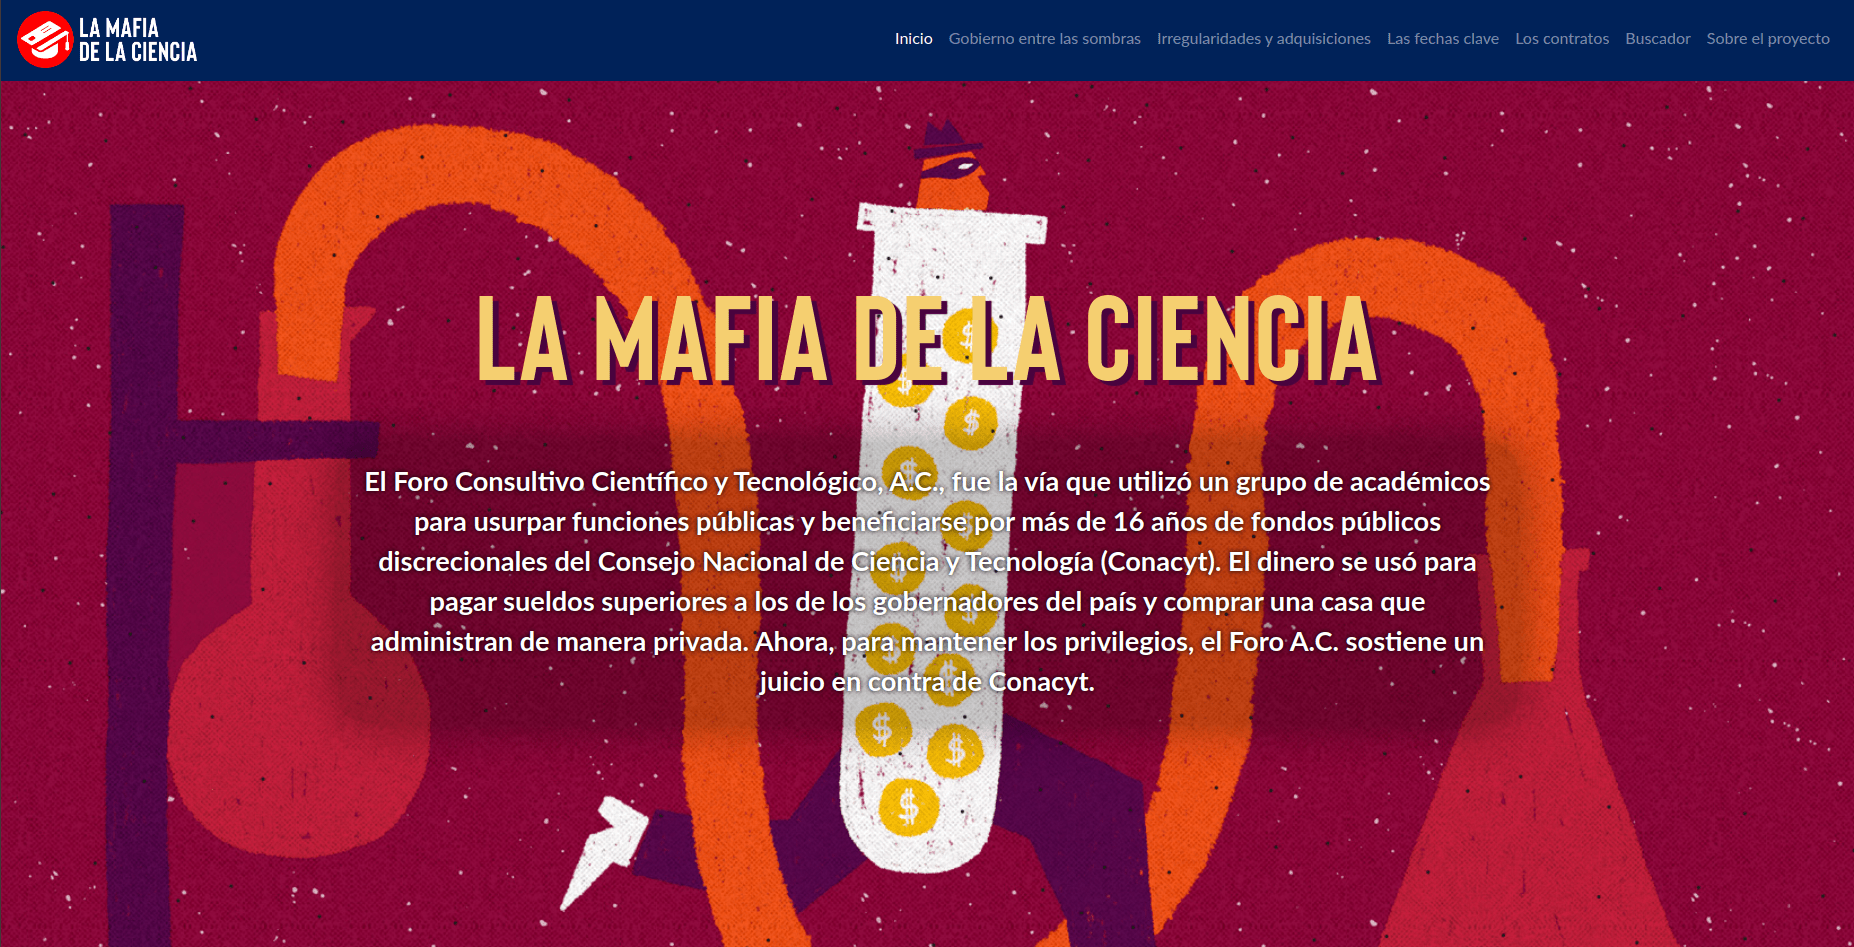
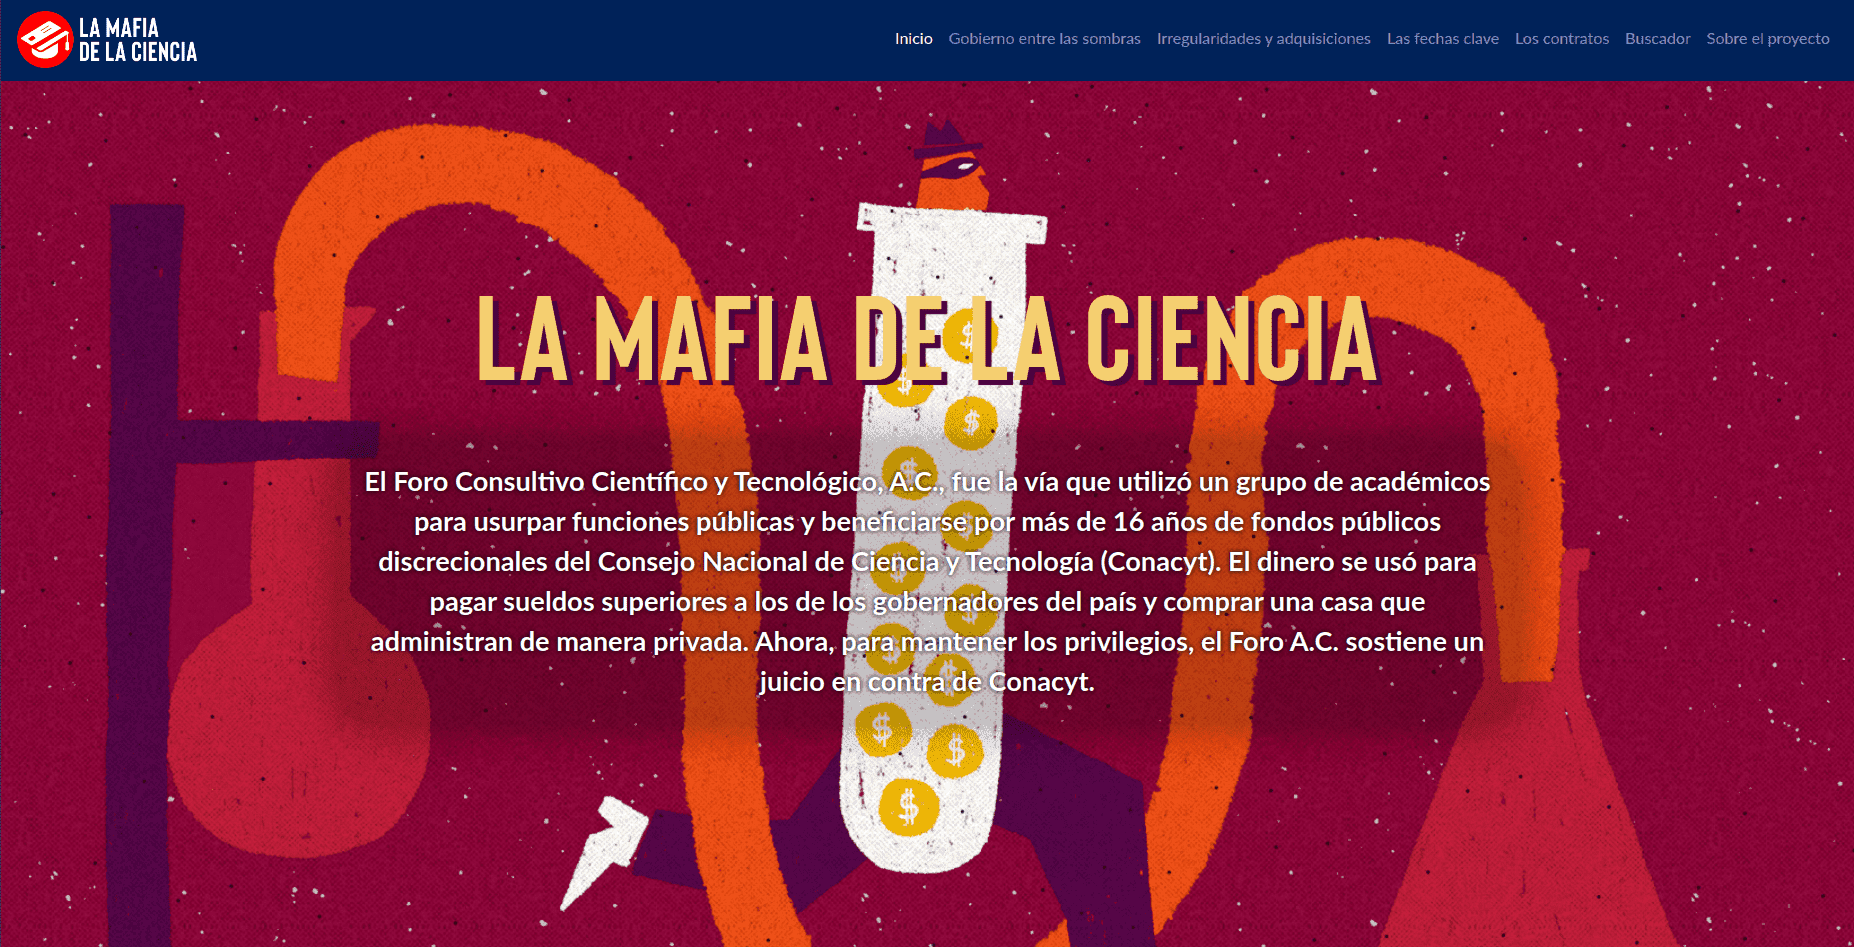
Fix subclassification mobile vew and compress img

diff --git a/public/stylesheets/style.css b/public/stylesheets/style.css
@@ -1145,40 +1145,40 @@ input[type=submit].landing-search-inputtext {
 .index-list-elements .right-elements div {
   float: right;
 }
-.index-list-elements .left-elements .area-institution,
-.index-list-elements .right-elements .area-institution {
-  position: absolute;
-  right: calc(60px + 13% * 5);
-  text-align: right;
-}
-.index-list-elements .left-elements .area-owner,
-.index-list-elements .right-elements .area-owner {
-  position: absolute;
-  right: calc(60px + 13% * 3);
-  text-align: right;
-}
 .index-list-elements .left-elements .area-company,
 .index-list-elements .right-elements .area-company {
   position: absolute;
   right: calc(60px + 13% * 0);
   text-align: right;
 }
-.index-list-elements .left-elements .area-proveedor,
-.index-list-elements .right-elements .area-proveedor {
-  position: absolute;
-  right: calc(60px + 13% * 2);
-  text-align: right;
-}
 .index-list-elements .left-elements .area-person,
 .index-list-elements .right-elements .area-person {
   position: absolute;
-  right: calc(60px + 13% * 1);
+  right: calc(60px + 14% * 1);
+  text-align: right;
+}
+.index-list-elements .left-elements .area-proveedor,
+.index-list-elements .right-elements .area-proveedor {
+  position: absolute;
+  right: calc(60px + 14% * 2);
+  text-align: right;
+}
+.index-list-elements .left-elements .area-owner,
+.index-list-elements .right-elements .area-owner {
+  position: absolute;
+  right: calc(60px + 14% * 3);
   text-align: right;
 }
 .index-list-elements .left-elements .area-funcionario,
 .index-list-elements .right-elements .area-funcionario {
   position: absolute;
-  right: calc(60px + 13% * 4);
+  right: calc(60px + 14% * 4);
+  text-align: right;
+}
+.index-list-elements .left-elements .area-institution,
+.index-list-elements .right-elements .area-institution {
+  position: absolute;
+  right: calc(60px + 14% * 5);
   text-align: right;
 }
 .index-list-element {
@@ -1281,12 +1281,37 @@ input[type=submit].landing-search-inputtext {
   text-align: center;
   width: 100%;
 }
+@media screen and (max-width: 1270px) {
+  .index-list-elements .right-elements .area-person {
+    right: calc(60px + 15.5% * 1);
+  }
+  .index-list-elements .right-elements .area-proveedor {
+    right: calc(60px + 15% * 2);
+  }
+  .index-list-elements .right-elements .area-owner {
+    right: calc(60px + 15.5% * 3);
+  }
+  .index-list-elements .right-elements .area-funcionario {
+    right: calc(60px + 15% * 4);
+  }
+  .index-list-elements .right-elements .area-institution {
+    right: calc(60px + 15% * 5);
+  }
+}
 @media screen and (max-width: 991px) {
   .filters {
     top: 56px;
   }
   .index-list-elements .right-elements {
     padding-right: 20px;
+  }
+  .index-list-elements .right-elements .area-institution,
+  .index-list-elements .right-elements .area-owner,
+  .index-list-elements .right-elements .area-company,
+  .index-list-elements .right-elements .area-proveedor,
+  .index-list-elements .right-elements .area-person,
+  .index-list-elements .right-elements .area-funcionario {
+    position: static;
   }
 }
 .page-break {
